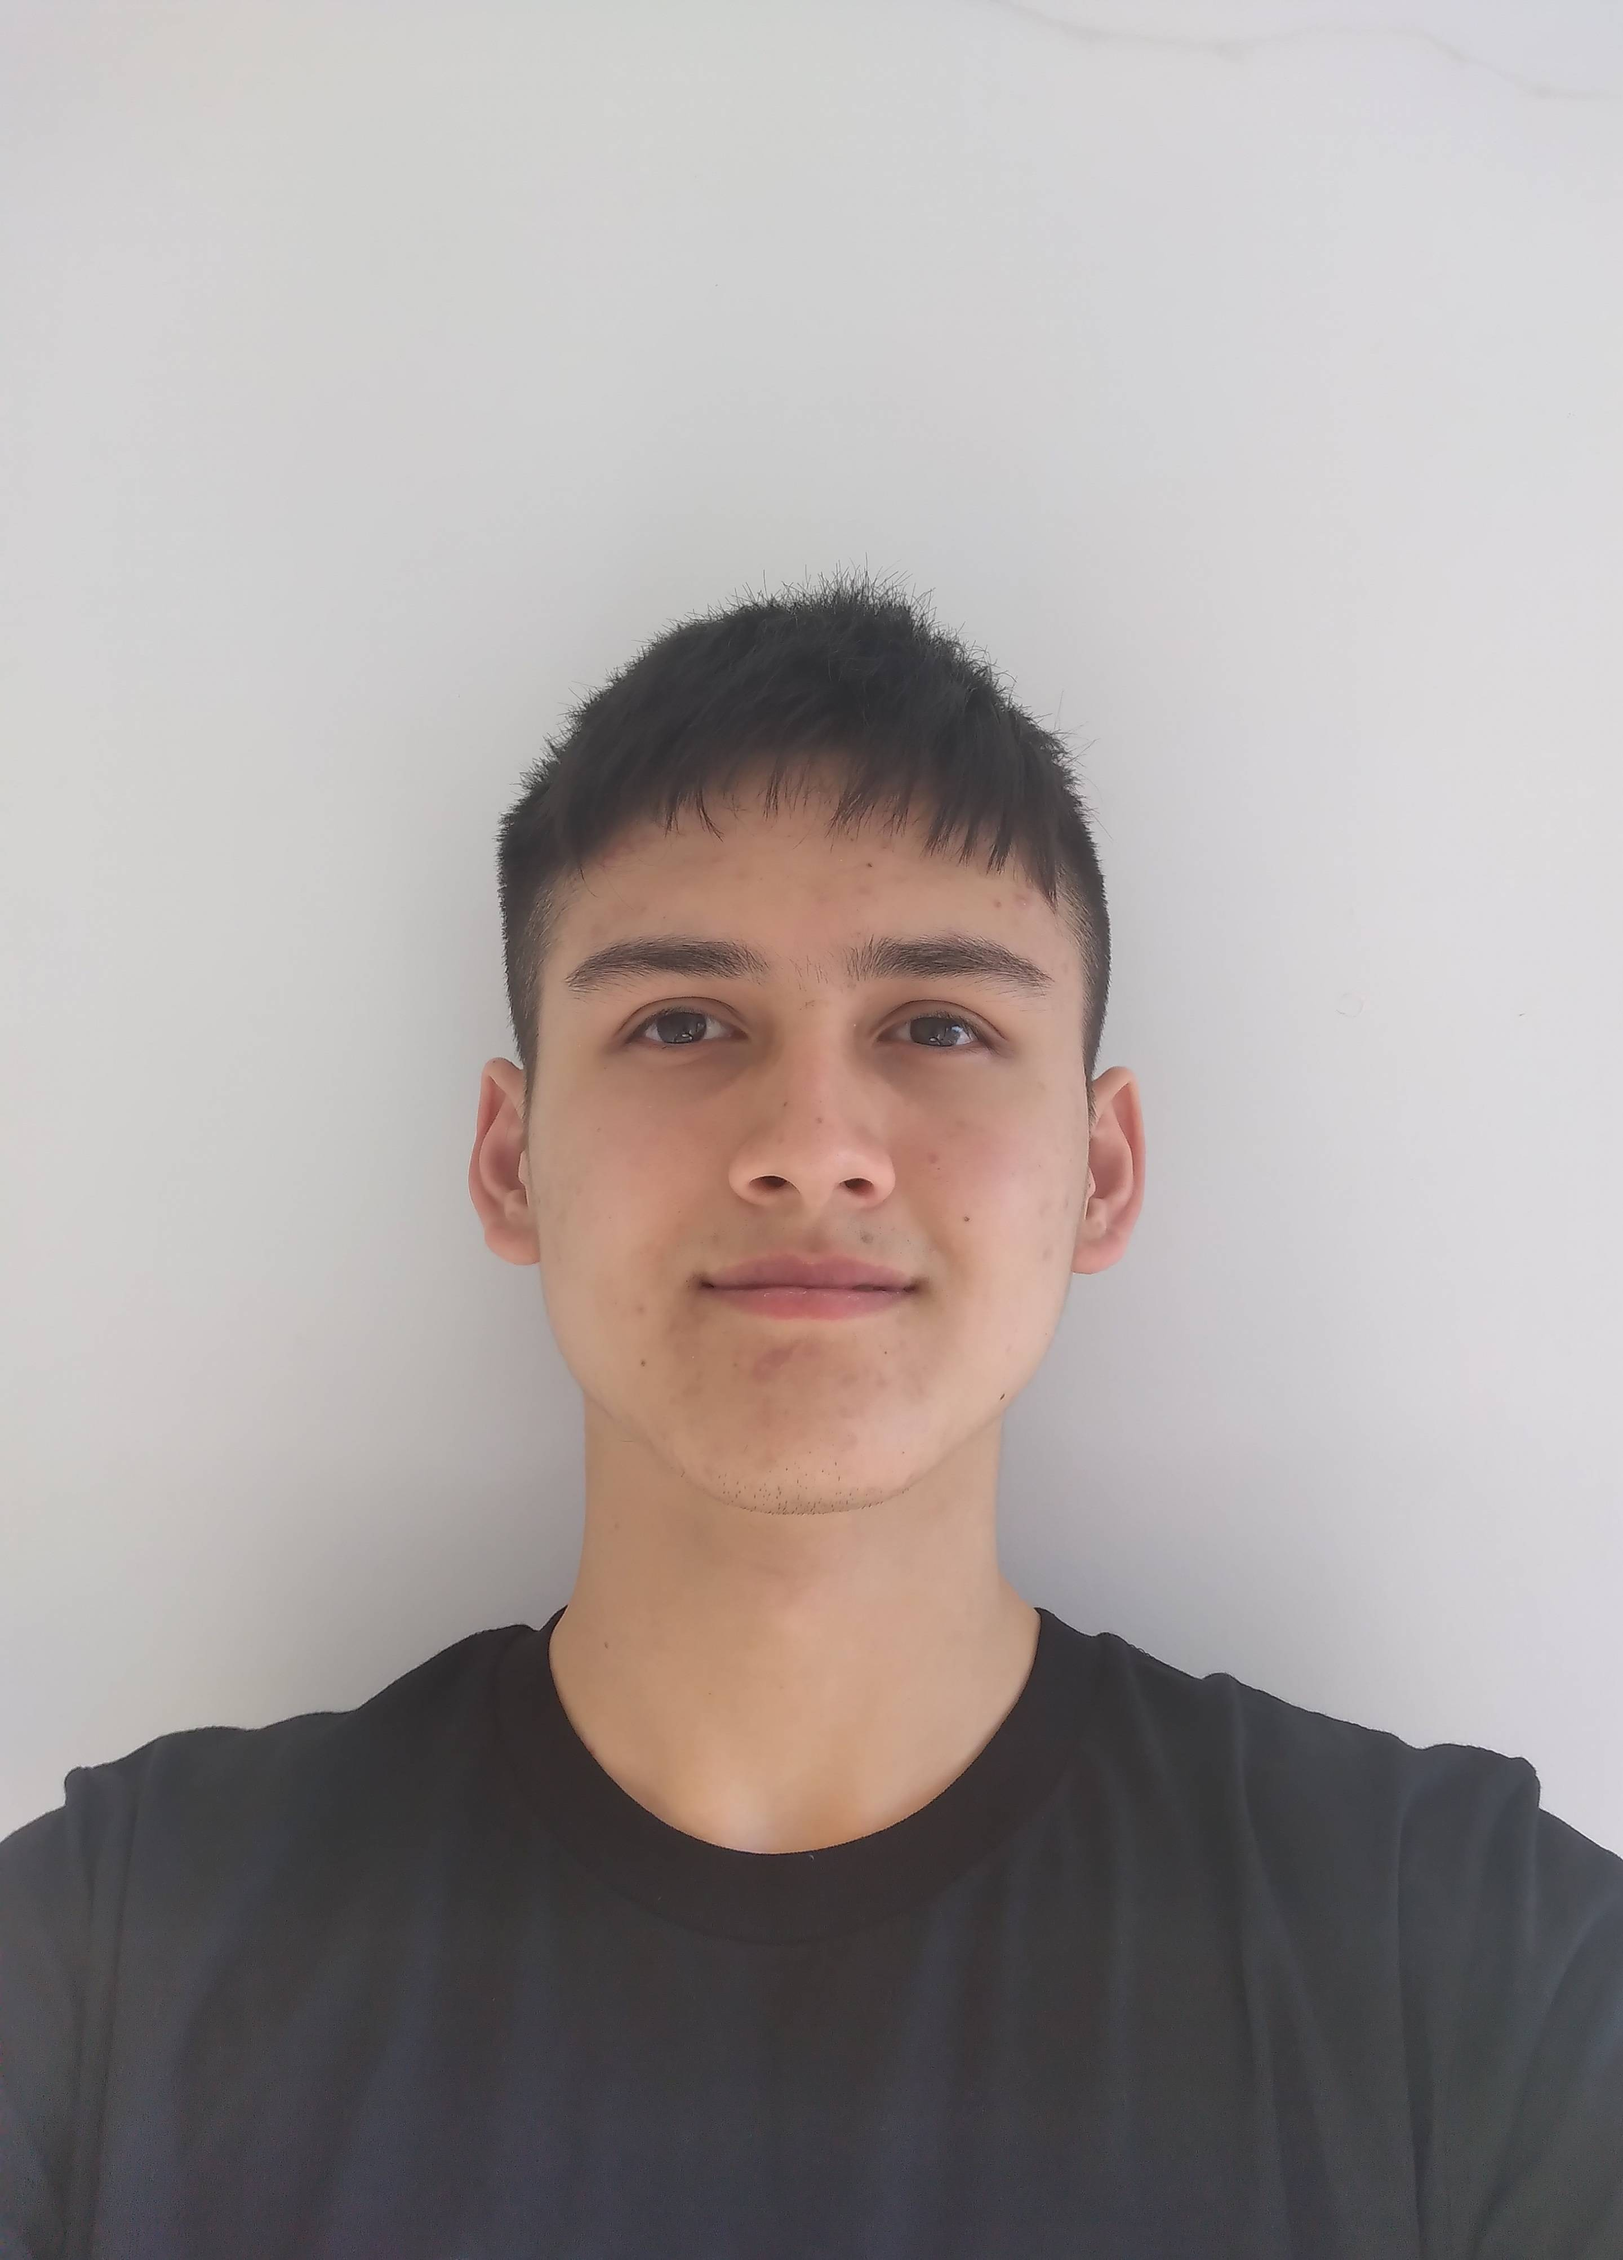
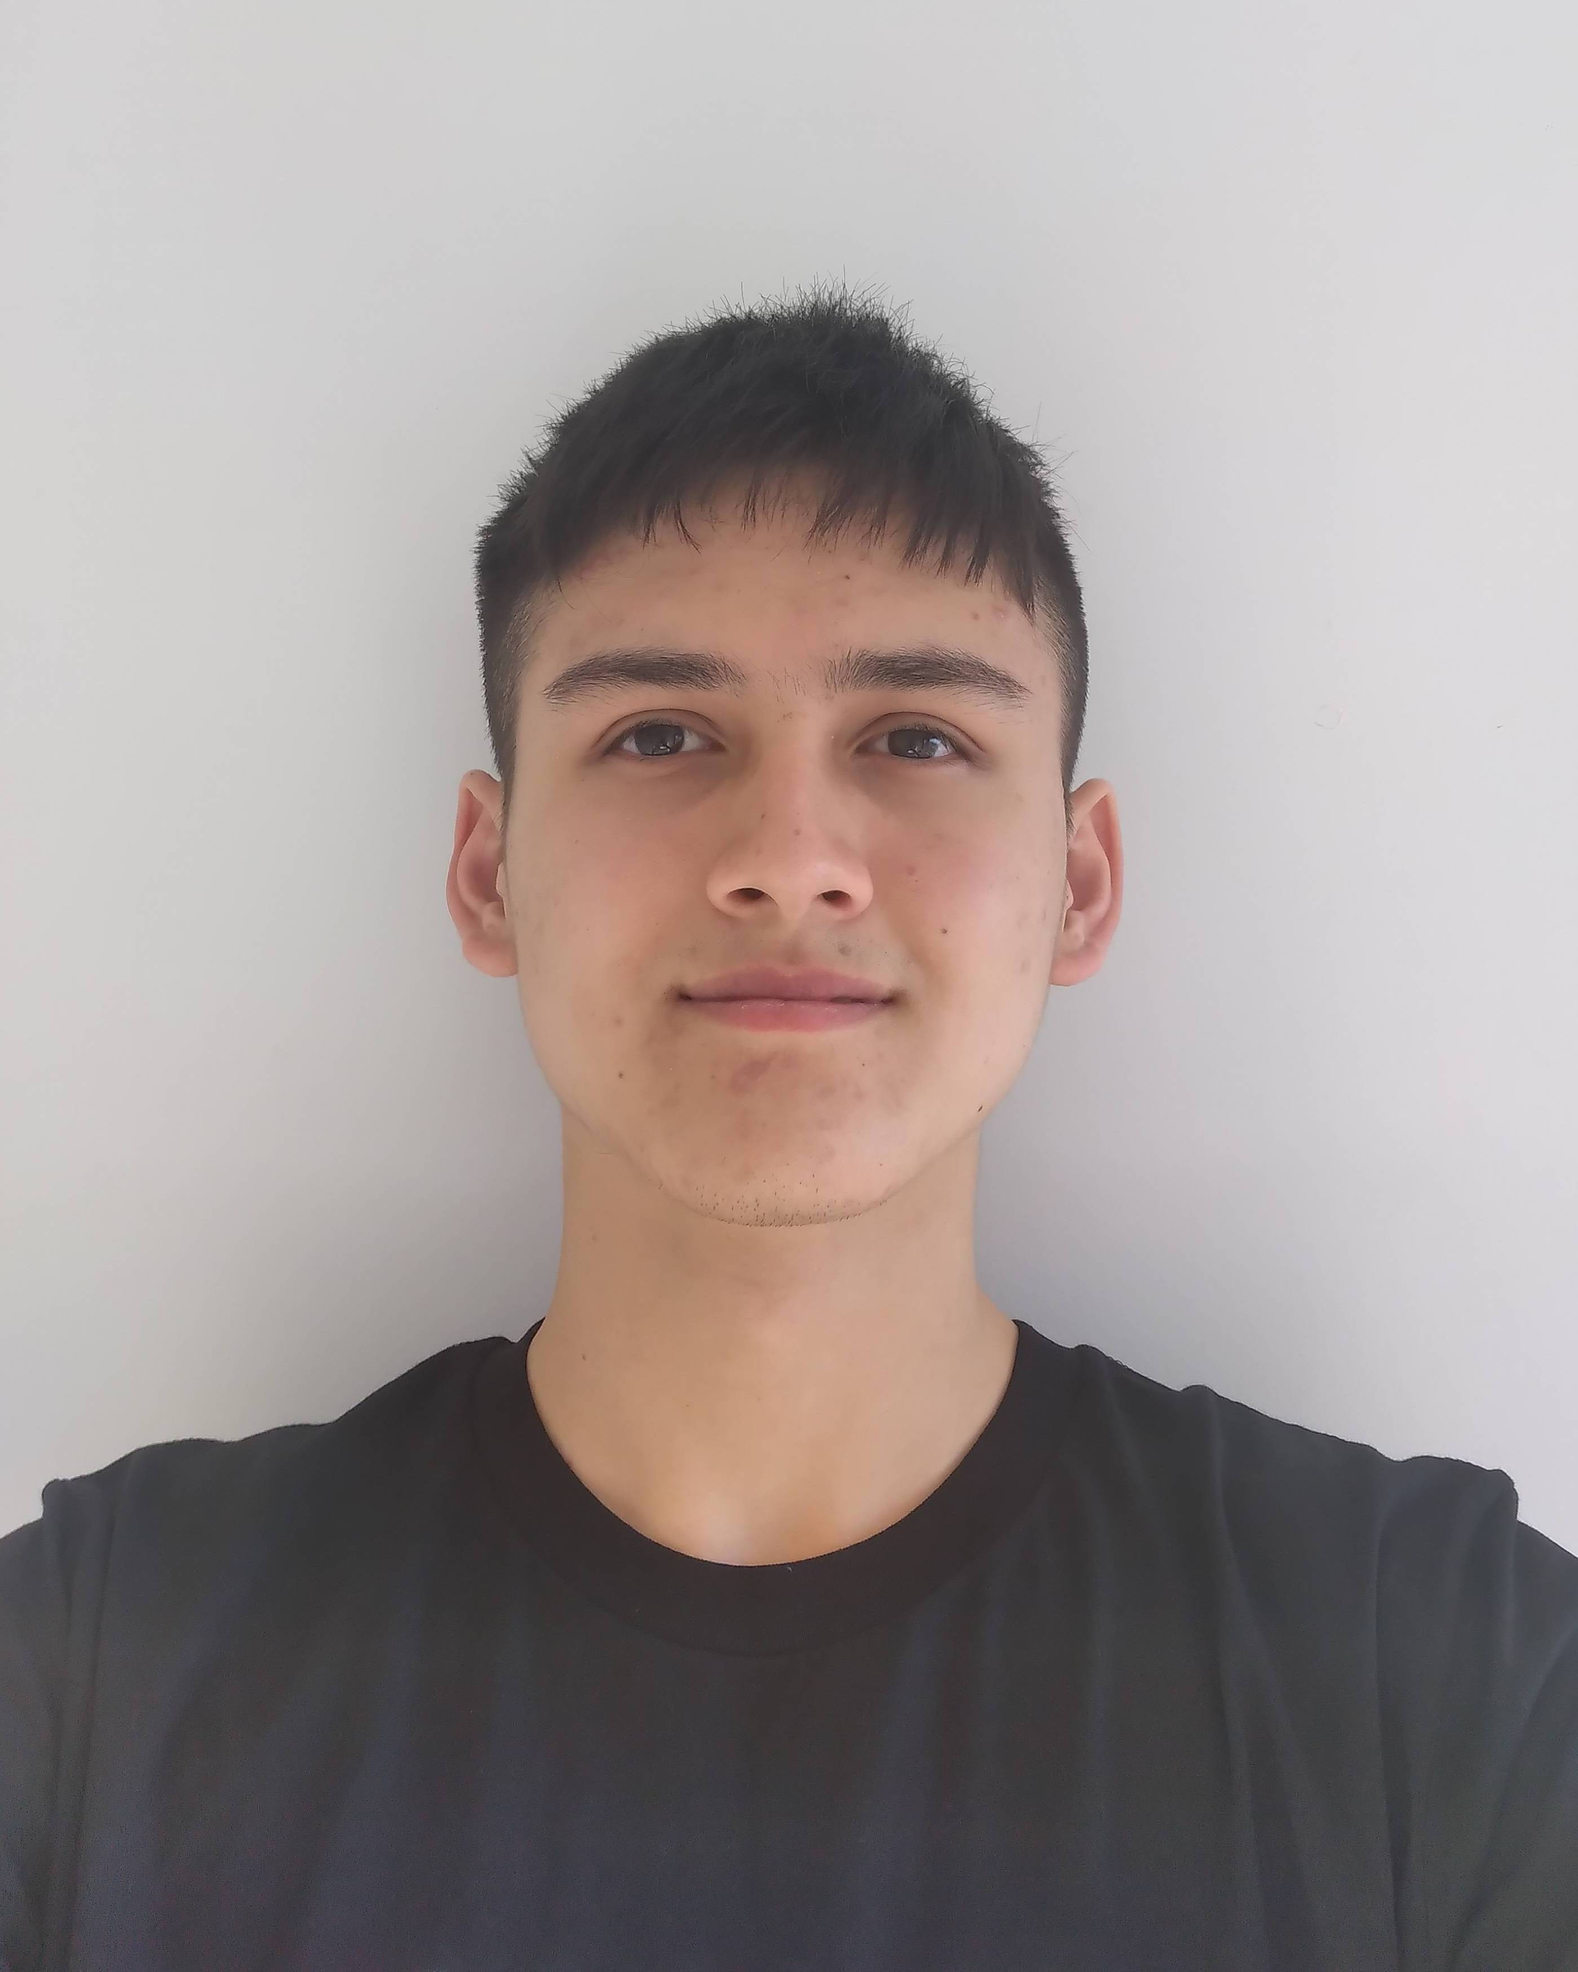
update picture again

Changed region(s): [[0.0, 0.1246, 1.0, 0.8409], [0.4971, 0.654, 0.5282, 0.6851]]

diff --git a/index.html b/index.html
@@ -40,7 +40,7 @@
               <button aria-controls="contact">Contact</button>
             </menu>
             <article role="tabpanel" id="about">
-              <img style="display: inline" src="./img/me.jpg" width="150" height="209">
+              <img style="display: inline" src="./img/me.jpg" width="150" height="188">
               <p>Hi there, my name's Edward Howells!</p>
               <p>I'm studying a Bachelor of Science at <b style="color: blue">The University of Melbourne</b>, Australia.</p>
               <p>I love reading and learning <b style="color: green">Computer Science</b>!</p>
